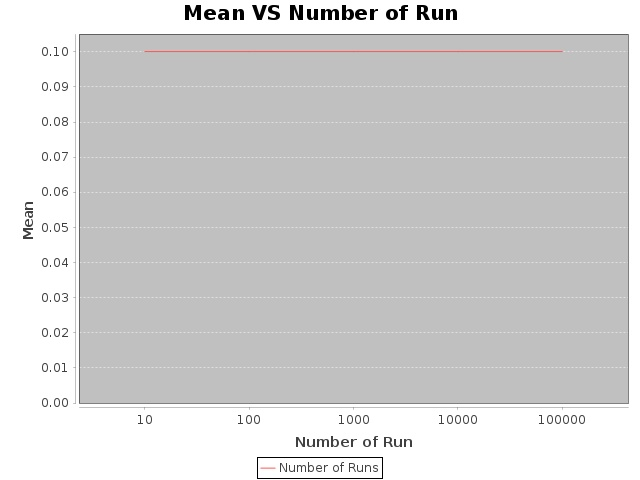
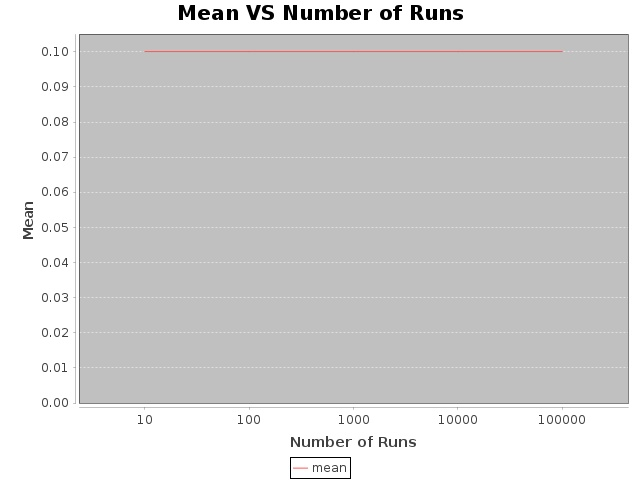
final commit

Changed region(s): [[0.2812, 0.0, 0.7188, 0.0625], [0.4375, 0.9062, 0.6562, 0.9375], [0.4062, 0.9688, 0.5938, 1.0]]

diff --git a/Sampling.java b/Sampling.java
@@ -13,90 +13,108 @@ import org.jfree.chart.plot.PlotOrientation;
 import org.jfree.data.category.DefaultCategoryDataset;
 
 public class Sampling {
-  double [] countArray;
-  int size;
-  Random rand;
-  static int numSelected = 0;
 
-  public Sampling(int fileSize){
-    this.size = fileSize;
-    this.countArray = new double[fileSize];
-    for(int i = 0; i < fileSize; i++){
-      this.countArray[i] = 0;
-    }
-    this.rand = new Random(4);
-  }
+	//An array to hold all the counts of selection
+	double [] countArray;
 
-  public void randomSelect() {
-    // TODO Auto-generated constructor stub:
+	//size of array
+	int size;
 
-    int Nr = size;
-    int Nn = (int)Math.round(0.1 * Nr);
-    double nextProb = 0.1;
-    double nextPoint;
+	//random generator
+	Random rand;
 
-    int i = 0;
-    while(i < size){
+	//constructor to initialize the array and random generator.
+	public Sampling(int fileSize){
+		this.size = fileSize;
+		this.countArray = new double[fileSize];
 
-      nextPoint = rand.nextDouble();
-      if(nextPoint < nextProb){
-        countArray[i]++;
-        Nr--;
-        Nn--;
-        nextProb = (double)Nn / Nr;
-        numSelected++;
-      }
-      else{
-        Nr--;
-        nextProb = (double)Nn / Nr;
-      }
+		for(int i = 0; i < fileSize; i++){
+			this.countArray[i] = 0;
+		}
 
-      //System.out.println("Index:" + i + ", Next probability:" + nextProb + ", Count:" + countArray[i]);
-      i++;
+		this.rand = new Random(4);
+	}
 
-    }
-  }
+	//Sampling without replacement algorithm is written here
+	public void randomSelect() {
 
+		int Nr = size;
+		int Nn = (int)Math.round(0.1 * Nr);
+		double nextProb = 0.1;
+		double nextPoint;
 
-  /**
-   * @param args
-   */
-  public static void main(String[] args) throws IOException{
-    // TODO Auto-generated method stub
-    BufferedReader reader = new BufferedReader(new FileReader(args[0]));
+		int i = 0;
+		while(i < size){
 
-    //File input = new File(args[0]);
+			nextPoint = rand.nextDouble();
+			if(nextPoint < nextProb){
+				countArray[i]++;
+				Nr--;
+				Nn--;
+				nextProb = (double)Nn / Nr;
+			}
+			else{
+				Nr--;
+				nextProb = (double)Nn / Nr;
+			}
 
-    //Scanner fileScanner = new Scanner(input);
-    int lineNum = 0;
-    while(reader.readLine() != null){
-      lineNum++;
-    }
-    reader.close();
+			i++;
 
-    int runTimes[] = {10, 100, 1000, 10000, 100000};
-    int length = runTimes.length;
-	DefaultCategoryDataset chart = new DefaultCategoryDataset();
-    for(int j = 0; j < length; j++){
-    Sampling sampling = new Sampling(lineNum);
-      for(int i =0; i<runTimes[j]; i++)
-        sampling.randomSelect();
-      DescriptiveStatistics stats = new DescriptiveStatistics(sampling.countArray);
-      System.out.println( " Mean: " + stats.getMean() + ", SD: " + stats.getStandardDeviation());
-      System.out.println( " Normalized Mean: " + stats.getMean()/runTimes[j] + ", Normalized SD: " + stats.getStandardDeviation()/runTimes[j]);
-	System.out.println("");
-	double normalizedMean = stats.getMean()/runTimes[j];	
-	chart.addValue((Number)normalizedMean,"Number of Runs", runTimes[j]);
-	
-    }
-	JFreeChart LineChart = ChartFactory.createLineChart(
-		"Mean VS Number of Run", "Number of Run", "Mean",
-		chart, PlotOrientation.VERTICAL, true, true, false);
-	int width = 640;
-	int height = 480;
-	File line_chart = new File( "chart.jpeg");
-	ChartUtilities.saveChartAsJPEG(line_chart, LineChart, width, height);
-  }
+		}
+	}
+
+	//Running the 10, 100, 1000 tests in Main
+	public static void main(String[] args) throws IOException{
+
+		//Read the input train data file
+		BufferedReader reader = new BufferedReader(new FileReader(args[0]));
+
+		//gets the total line number of the data file
+		int lineNum = 0;
+		while(reader.readLine() != null){
+			lineNum++;
+		}
+		reader.close();
+
+		//number of runs for tests
+		int runTimes[] = {10, 100, 1000, 10000, 100000};
+		int length = runTimes.length;
+		
+		DefaultCategoryDataset chart = new DefaultCategoryDataset();
+
+		//Run tests in the loop
+		for(int j = 0; j < length; j++){
+			
+			//create new sampling object for each test
+			Sampling sampling = new Sampling(lineNum);
+
+			//run the algorithm 10, 100 times .....100000 times
+			for(int i =0; i<runTimes[j]; i++)
+				sampling.randomSelect();
+			
+			DescriptiveStatistics stats = new DescriptiveStatistics(sampling.countArray);
+			
+			//report of the result
+			System.out.println( "Number of runs: " + runTimes[j] + 
+					", Normalized Mean: " + stats.getMean()/runTimes[j] + 
+					", Normalized SD: " + stats.getStandardDeviation()/runTimes[j]);
+			System.out.println("");
+			
+			//adding the result after each test, later used to create the chart
+			double normalizedMean = stats.getMean()/runTimes[j];	
+			chart.addValue((Number)normalizedMean, "mean", runTimes[j]);
+
+		}
+		
+		//Creating a chart
+		JFreeChart LineChart = ChartFactory.createLineChart(
+				"Mean VS Number of Runs", "Number of Runs", "Mean",
+				chart, PlotOrientation.VERTICAL, true, true, false);
+		int width = 640;
+		int height = 480;
+		File line_chart = new File( "chart.jpeg");
+		ChartUtilities.saveChartAsJPEG(line_chart, LineChart, width, height);
+	}
 
 
 }
